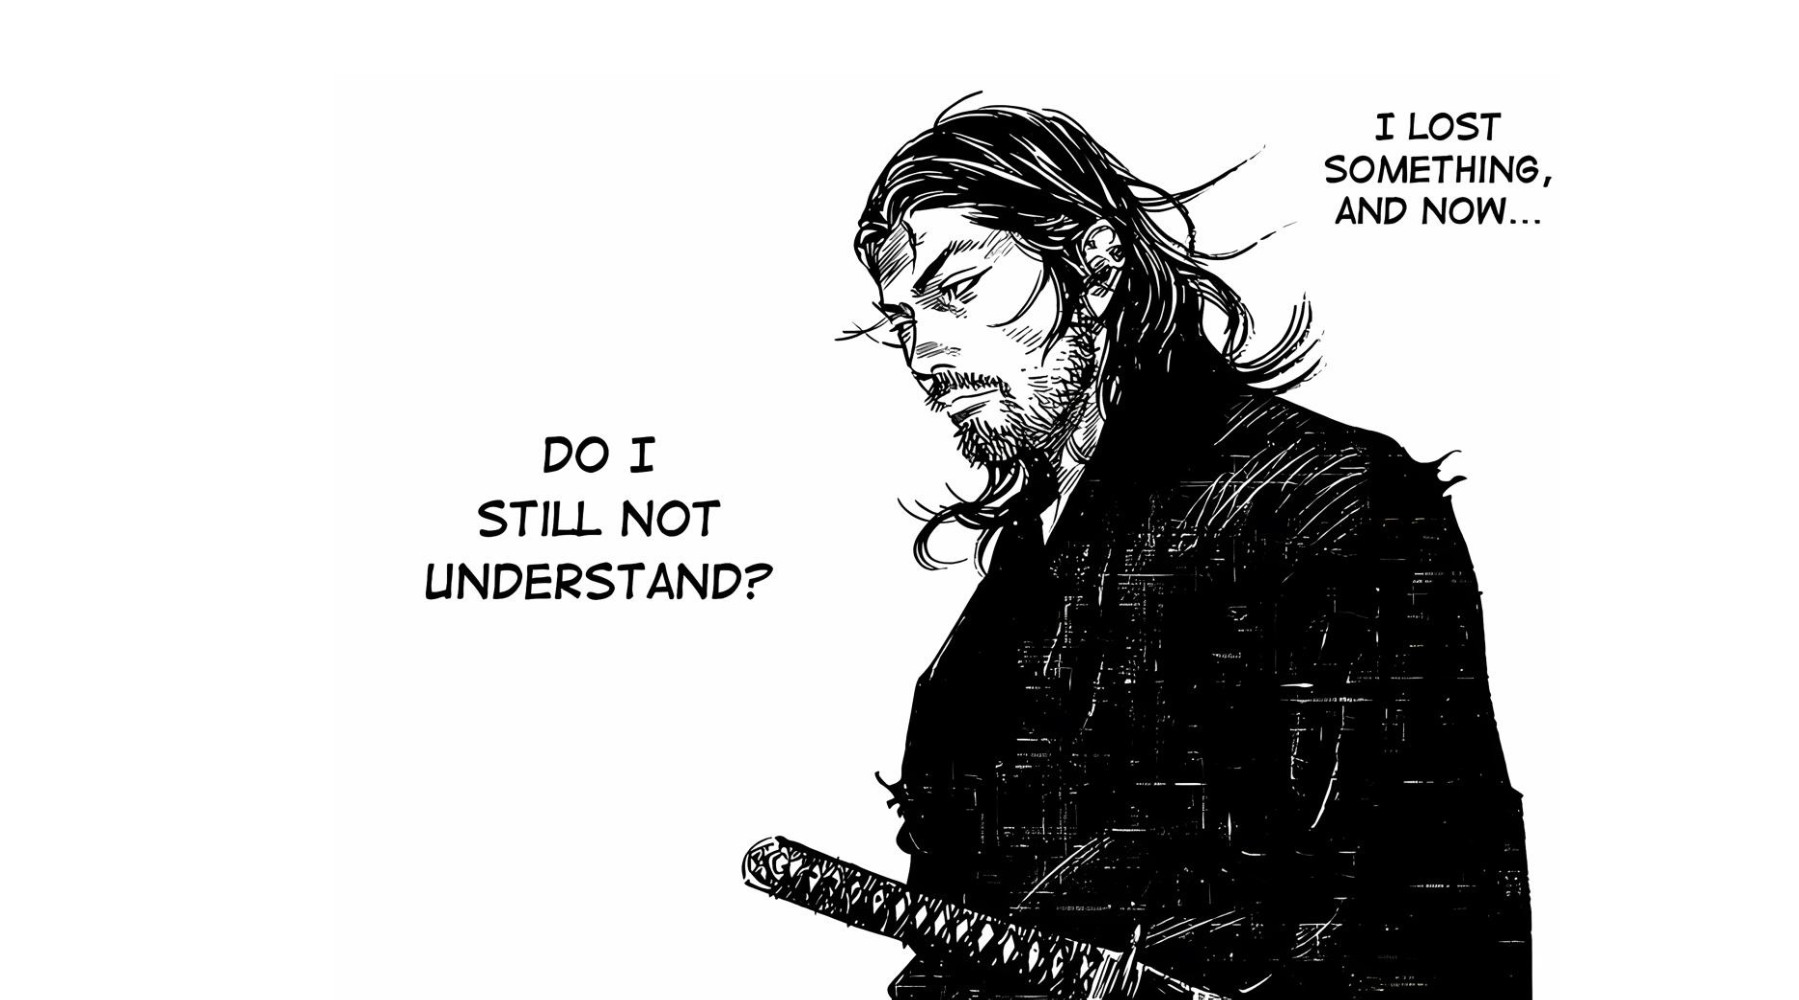
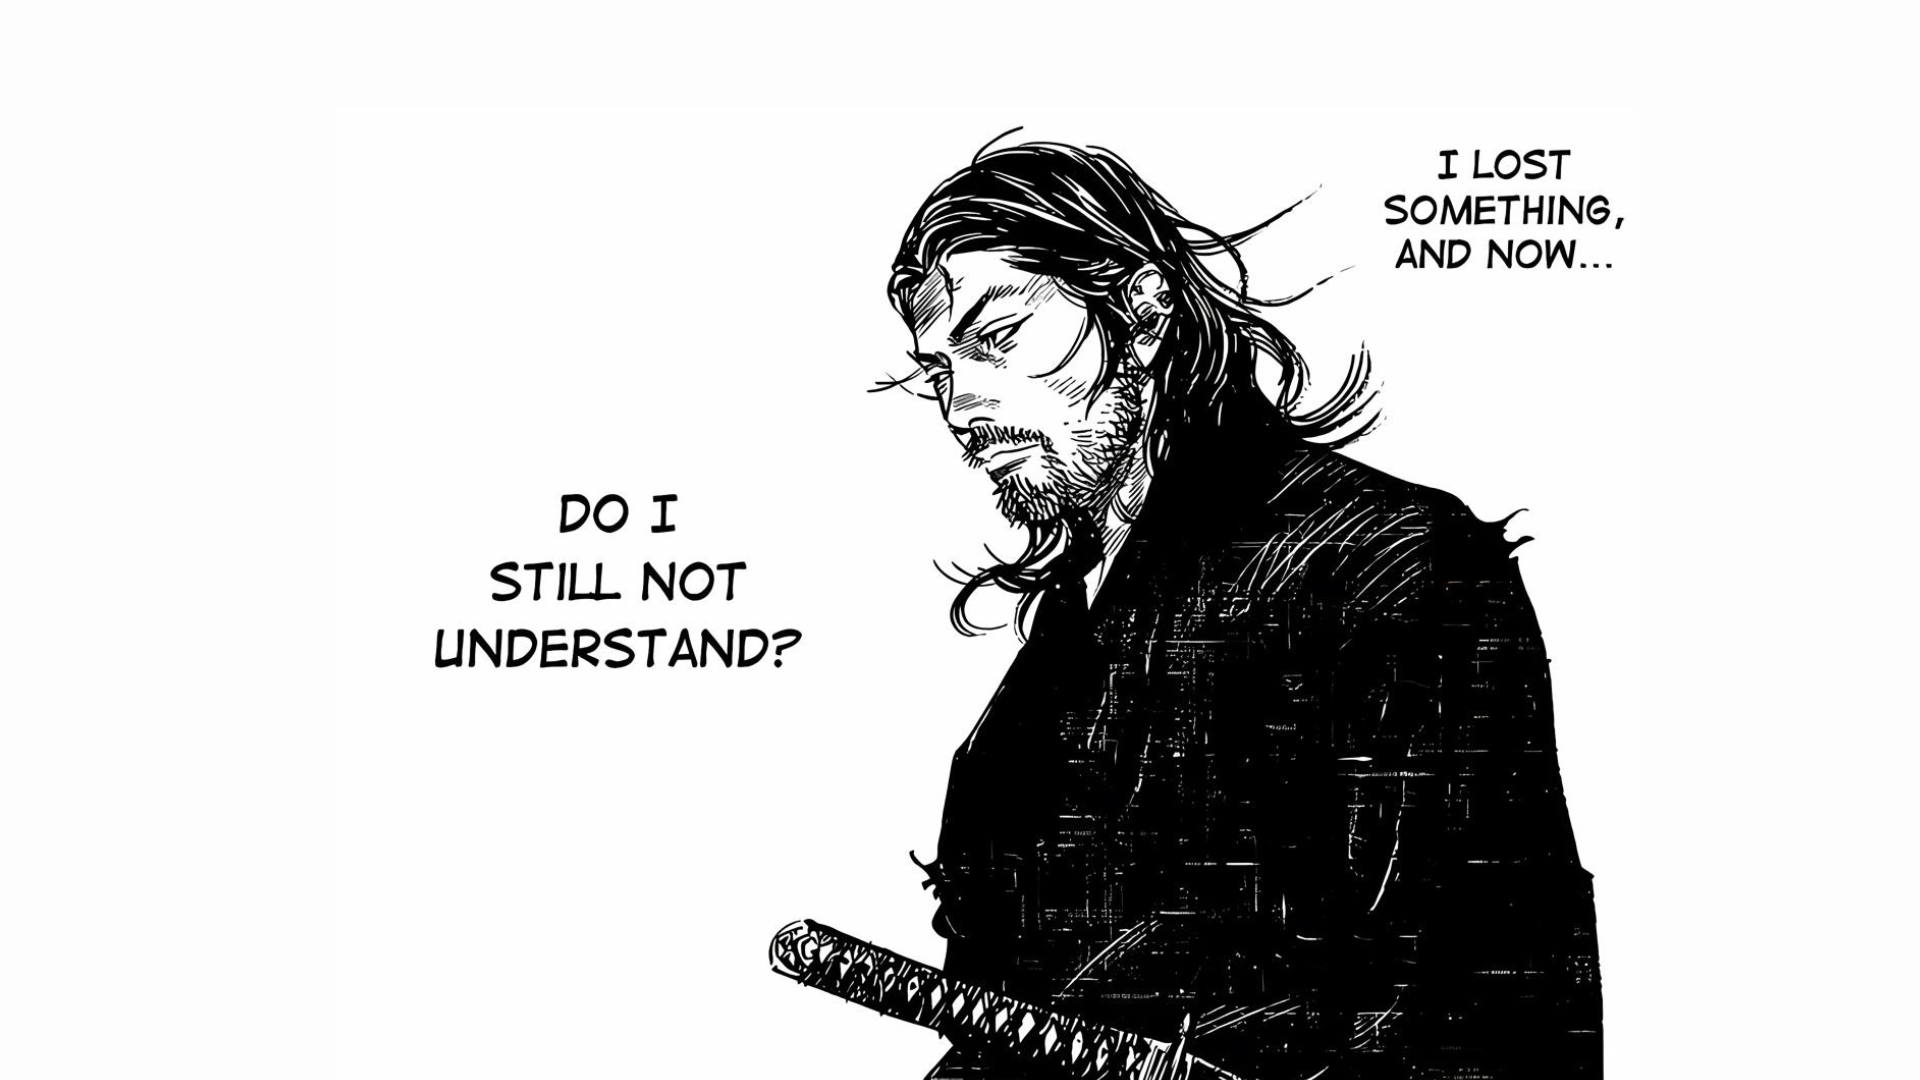
adjusted the css

diff --git a/style.css b/style.css
@@ -216,37 +216,35 @@ body{
   border: 2px solid black;
 }
 
-/*mangapaneltwo*/
+/* Styling for mangapanel-two container */
 .mangapanel-two{
-  width: 100%;
   display: flex;
   flex-direction: row;
-  justify-content: space-between;
+  width: 100%;
+  display: grid;
+  grid-template-columns: 2fr 1fr; /* Two columns with different widths */
+  column-gap: 1vw;
+  padding: 2vh 2vw;
+  box-sizing: border-box;
 }
 
-.mangapanel-two .left img{
+.mangapanel-two img{
   width: 100%;
-  border: solid 1px black;
+  border: solid 2px black;
 }
 
 .mangapanel-two .right img{
-  width: 50%;
-  border: solid 1px black;
-  height: 100%;
+  height: 100vh;
 }
 
 .mangapanel-two .right{
-  display: flex;
-  flex-direction: column;
-}
-
-.mangapanel-two .right2{
-  display: flex;
-  flex-direction: row;
   width: 100%;
 }
 
-
+.mangapanel-two .left{
+  width: 100%;
+  height: 100%;
+}
 
 /*adding a media query*/
 @media screen and (max-width : 800px) {

diff --git a/index.html b/index.html
@@ -40,14 +40,10 @@
 
       <div class="mangapanel-two">
          <div class="left">
-           <img src="/images/mangapanel4.png" alt="">
+           <img src="/images/mangapanel5.png" alt="">
          </div>
          <div class="right">
-            <img src="/images/mangapanel5.png" alt="">
-            <div class="right2">
-               <img src="/images/mangapanel6.png" alt="">
-               <img src="/images/mangapanel7.png" alt="">
-            </div>
+            <img src="/images/mangapanel4.png" alt="">
          </div>
       </div>
 
